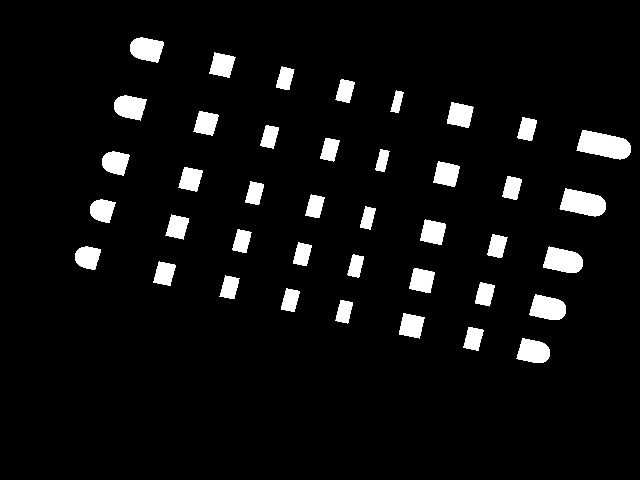
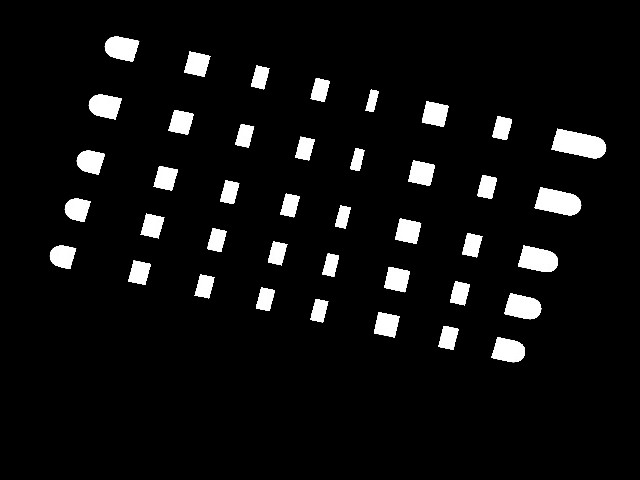
fixed problem with missing points and working on 3D visualization :

diff --git a/3D/visualizator.py b/3D/visualizator.py
@@ -15,8 +15,11 @@ import rotatePoints as rp
 from PointNode import PointNode
 import getDepth as gd
 
-cal = cv2.imread("calibrated.jpg", 0)
-new = cv2.imread("new_1.jpg", 0)
+cal = cv2.imread("calibrated_1.jpg", 0)
+new = cv2.imread("newGrid.jpg", 0)
+h,w = cal.shape
+foundPoints_cal = np.zeros(cal.shape, np.uint8)
+foundPoints_new = np.zeros(cal.shape, np.uint8)
 
 ret, cal = cv2.threshold(cal, 100,255, cv2.THRESH_BINARY)
 ret, new = cv2.threshold(new, 100,255, cv2.THRESH_BINARY)
@@ -24,17 +27,27 @@ ret, new = cv2.threshold(new, 100,255, cv2.THRESH_BINARY)
 pointsList_cal = fs.getPoints(cal, cal.shape[1], cal.shape[0])
 pointsList_new = fs.getPoints(new, new.shape[1], new.shape[0])
 
+for p in pointsList_cal:
+	cv2.circle(foundPoints_cal, (int(p.x), int(p.y)), 3, 200, -1)
+
+for p in pointsList_new:
+	cv2.circle(foundPoints_new, (int(p.x), int(p.y)), 3, 200, -1)
 
 mid = PointNode(cal.shape[1]/2, cal.shape[0]/2)
-deg = -13
+deg = -40
 
-pointsList_n, pointsList_c, cal, new = gd.getDepth(cal,new,deg)
+pointsList_n, pointsList_c, cal_lines, new_lines = gd.getDepth(pointsList_cal, pointsList_new, h, w, deg)
+
+print(len(pointsList_n), len(pointsList_c))
 gd.writeVertices("model.obj", pointsList_n)
-gd.writeVertices("calibrated.obj", pointsList_n)
+gd.writeVertices("calibrated.obj", pointsList_c)
 
 
-canvas.createScene(pointsList_n)
-cv2.imshow("cal", cal)
-cv2.imshow("new", new)
+
+cv2.imshow("cal", cal_lines)
+cv2.imshow("new", new_lines)
+cv2.imshow("found_c", foundPoints_cal)
+cv2.imshow("found_n", foundPoints_new)
 cv2.waitKey()
+canvas.createScene(pointsList_n)
  
